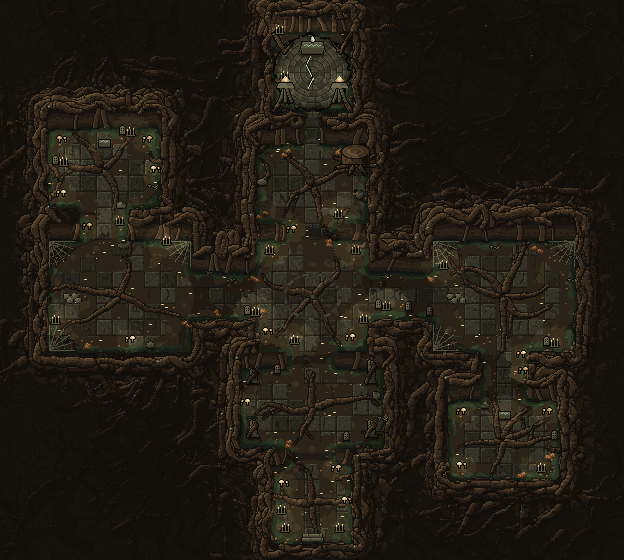
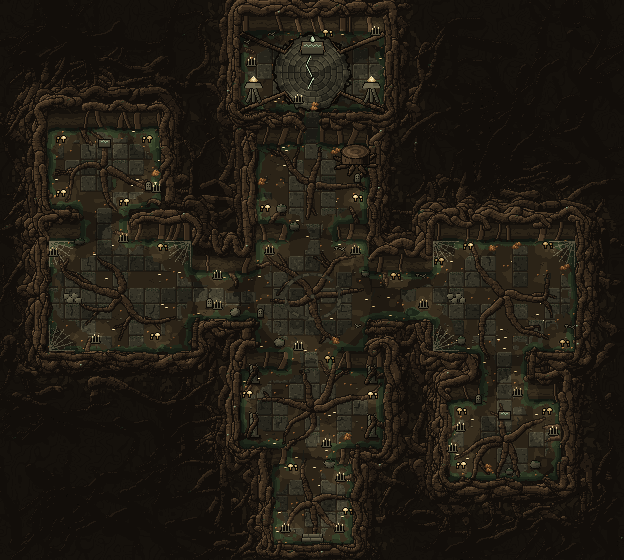
보스방을 9×5로 넓히고, 입장 시 보스방 전체를 밝힘
- data/act-exploration-maps.js: 보스방 반경 2×2 → 4×2(액트 7은 옆방 때문에 3×2). 가운데·관문·다른 방은 그대로라
  진행 중인 탐험 저장과 맞는다. 맵 그림 10장을 다시 찍음.
- 입장이 열리면 보스방과 둘레 벽을 발견 지도에 더한다(revealRoom). 보스방(관문 포함)에 있는 동안 방 전체의 안개를
  걷고, 조명 비네트를 방 가운데 기준으로 방 전체에 연다(bossRoomGlow → getBattleLightFocus).
- smoke-act-exploration-state: 관문 앞에서는 방 끝이 어둡고, 입장이 열리면 방 전체가 발견됨.

Changed region(s): [[0.0, 0.0, 0.9744, 1.0], [0.8221, 0.9107, 0.8526, 0.9411]]

diff --git a/data/act-exploration-maps.js b/data/act-exploration-maps.js
@@ -1,6 +1,7 @@
 // Authored topology, not a random generator. Rooms use [id, centerX, centerY, radiusX, radiusY, role].
 // Links use [from, to, optional orthogonal bend points]. Rotation is clockwise quarter turns.
 // Every boss chamber has exactly one one-cell threshold; ordinary passages stay wider.
+// Boss chambers are 9×5 (act 7: 7×5 — its deadwood room sits one wall column away) so a 2×2 boss has room to move.
 const ACT_EXPLORATION_MAPS = Object.freeze([
     {
         act:1, id:'root-branches', biome:'root', width:39, height:35, rotation:0,
@@ -8,7 +9,7 @@ const ACT_EXPLORATION_MAPS = Object.freeze([
         rooms:[['entry',19,31,2,2,'entry'],['hall',19,25,4,2,'battle'],
             ['fork',19,18,3,3,'battle'],['west',7,18,4,3,'elite'],
             ['east',31,18,4,3,'elite'],['twig',31,27,3,2,'optional'],
-            ['hollow',6,10,3,2,'optional'],['crown',19,11,3,2,'battle'],['boss',19,4,2,2,'boss']],
+            ['hollow',6,10,3,2,'optional'],['crown',19,11,3,2,'battle'],['boss',19,4,4,2,'boss']],
         links:[['entry','hall'],['hall','fork'],['fork','west'],['fork','east'],
             ['east','twig'],['west','hollow'],['fork','crown']]
     },
@@ -19,7 +20,7 @@ const ACT_EXPLORATION_MAPS = Object.freeze([
             ['west',8,25,3,2,'battle'],['east',34,25,3,2,'battle'],
             ['hedgeWest',8,14,3,3,'elite'],['hedgeEast',34,14,3,3,'elite'],
             ['alcove',3,20,1,2,'optional'],['arbor',39,20,1,2,'optional'],
-            ['balcony',21,11,4,2,'battle'],['boss',21,4,2,2,'boss']],
+            ['balcony',21,11,4,2,'battle'],['boss',21,4,4,2,'boss']],
         links:[['entry','south'],['south','west'],['south','east'],['west','hedgeWest'],
             ['east','hedgeEast'],['hedgeWest','balcony',[[8,11]]],['hedgeEast','balcony',[[34,11]]],
             ['west','alcove',[[3,25]]],['east','arbor',[[39,25]]]]
@@ -30,7 +31,7 @@ const ACT_EXPLORATION_MAPS = Object.freeze([
         rooms:[['entry',7,44,3,2,'entry'],['isleSouth',25,39,3,2,'battle'],
             ['isleWest',8,31,3,2,'elite'],['isleEast',25,22,3,2,'elite'],
             ['spur',29,31,2,2,'optional'],['ledge',5,18,2,2,'optional'],
-            ['summit',17,11,3,2,'battle'],['boss',17,4,2,2,'boss']],
+            ['summit',17,11,3,2,'battle'],['boss',17,4,4,2,'boss']],
         links:[['entry','isleSouth',[[7,39]]],['isleSouth','isleWest',[[25,31]]],
             ['isleWest','isleEast',[[8,22]]],['isleEast','summit',[[25,11]]],
             ['isleWest','spur'],['isleEast','ledge',[[5,22]]]]
@@ -42,7 +43,7 @@ const ACT_EXPLORATION_MAPS = Object.freeze([
             ['westLow',8,28,2,2,'battle'],['eastLow',38,28,2,2,'battle'],
             ['westHigh',8,16,2,2,'elite'],['eastHigh',38,16,2,2,'elite'],
             ['center',23,21,2,2,'battle'],['blindWest',3,21,1,1,'optional'],
-            ['blindEast',43,21,1,1,'optional'],['threshold',23,11,2,2,'battle'],['boss',23,4,2,2,'boss']],
+            ['blindEast',43,21,1,1,'optional'],['threshold',23,11,2,2,'battle'],['boss',23,4,4,2,'boss']],
         links:[['entry','cross'],['cross','westLow'],['cross','eastLow'],['westLow','westHigh'],
             ['eastLow','eastHigh'],['westHigh','center',[[16,16],[16,21]]],
             ['eastHigh','center',[[30,16],[30,21]]],['center','cross'],['center','threshold'],
@@ -54,7 +55,7 @@ const ACT_EXPLORATION_MAPS = Object.freeze([
         rooms:[['entry',17,39,2,2,'entry'],['naveSouth',17,32,3,3,'battle'],
             ['naveNorth',17,20,3,3,'battle'],['choir',6,30,3,3,'elite'],
             ['vestry',28,18,3,3,'elite'],['crypt',5,12,2,2,'optional'],
-            ['archive',29,33,2,2,'optional'],['altar',17,11,3,2,'battle'],['boss',17,4,2,2,'boss']],
+            ['archive',29,33,2,2,'optional'],['altar',17,11,3,2,'battle'],['boss',17,4,4,2,'boss']],
         links:[['entry','naveSouth'],['naveSouth','naveNorth'],['naveNorth','altar'],
             ['naveSouth','choir',[[6,32]]],['naveNorth','vestry',[[28,20]]],
             ['choir','crypt',[[6,12]]],['naveSouth','archive',[[29,32]]]]
@@ -66,7 +67,7 @@ const ACT_EXPLORATION_MAPS = Object.freeze([
             ['west',8,25,3,2,'battle'],['east',34,25,3,2,'elite'],
             ['hedgeWest',8,14,3,3,'elite'],['hedgeEast',34,14,3,3,'optional'],
             ['breach',21,19,3,2,'battle'],['collapse',3,20,1,2,'optional'],
-            ['balcony',21,11,4,2,'battle'],['boss',21,4,2,2,'boss']],
+            ['balcony',21,11,4,2,'battle'],['boss',21,4,4,2,'boss']],
         links:[['entry','south'],['south','west'],['west','hedgeWest'],['west','collapse',[[3,25]]],
             ['south','breach'],['breach','east',[[34,19]]],['breach','hedgeEast',[[34,19]]],
             ['breach','balcony'],['hedgeWest','balcony',[[8,11]]]]
@@ -78,7 +79,7 @@ const ACT_EXPLORATION_MAPS = Object.freeze([
             ['rimEast',38,13,3,3,'elite'],['rimNorth',7,13,3,3,'battle'],
             ['innerWest',7,30,2,2,'elite'],['innerSouth',25,30,3,2,'battle'],
             ['innerEast',25,20,2,2,'battle'],['deadwood',15,6,2,2,'optional'],
-            ['hollow',15,23,2,2,'optional'],['heart',22,11,2,2,'battle'],['boss',22,4,2,2,'boss']],
+            ['hollow',15,23,2,2,'optional'],['heart',22,11,2,2,'battle'],['boss',22,4,3,2,'boss']],
         links:[['entry','rimSouth',[[5,39]]],['rimSouth','rimEast'],['rimEast','rimNorth'],
             ['rimNorth','innerWest'],['innerWest','innerSouth'],['innerSouth','innerEast'],
             ['innerEast','heart',[[25,11]]],['innerWest','hollow',[[15,30]]],['rimNorth','deadwood',[[15,13]]]]
@@ -89,7 +90,7 @@ const ACT_EXPLORATION_MAPS = Object.freeze([
         rooms:[['entry',5,30,2,2,'entry'],['southEast',42,29,3,2,'battle'],
             ['middleEast',42,20,3,2,'elite'],['middleWest',13,20,3,2,'battle'],
             ['northWest',13,11,3,2,'elite'],['veilEnd',24,11,2,2,'battle'],
-            ['foldSouth',25,35,2,2,'optional'],['foldNorth',42,11,3,2,'optional'],['boss',24,4,2,2,'boss']],
+            ['foldSouth',25,35,2,2,'optional'],['foldNorth',42,11,3,2,'optional'],['boss',24,4,4,2,'boss']],
         links:[['entry','southEast',[[5,29]]],['southEast','middleEast'],['middleEast','middleWest'],
             ['middleWest','northWest'],['northWest','veilEnd'],['middleWest','foldSouth',[[25,20]]],
             ['middleEast','foldNorth']]
@@ -101,7 +102,7 @@ const ACT_EXPLORATION_MAPS = Object.freeze([
             ['west',7,25,3,3,'elite'],['east',45,25,3,3,'elite'],
             ['center',26,19,4,3,'battle'],['westHigh',7,13,3,2,'battle'],
             ['eastHigh',45,13,3,2,'battle'],['sapWest',16,32,2,2,'optional'],
-            ['sapEast',36,32,2,2,'optional'],['cocoon',26,11,4,2,'battle'],['boss',26,4,2,2,'boss']],
+            ['sapEast',36,32,2,2,'optional'],['cocoon',26,11,4,2,'battle'],['boss',26,4,4,2,'boss']],
         links:[['entry','fork'],['fork','west',[[7,27]]],['fork','east',[[45,27]]],['fork','center'],
             ['west','westHigh'],['east','eastHigh'],['westHigh','cocoon',[[7,11]]],
             ['eastHigh','cocoon',[[45,11]]],['center','cocoon'],['west','sapWest',[[16,25]]],['east','sapEast',[[36,25]]]]
@@ -114,7 +115,7 @@ const ACT_EXPLORATION_MAPS = Object.freeze([
             ['west',6,20,3,3,'elite'],['east',42,20,3,3,'elite'],
             ['northWest',12,11,3,2,'battle'],['northEast',36,11,3,2,'battle'],
             ['innerWest',17,23,2,2,'optional'],['innerEast',31,23,2,2,'optional'],
-            ['axis',24,11,3,2,'battle'],['boss',24,4,2,2,'boss']],
+            ['axis',24,11,3,2,'battle'],['boss',24,4,4,2,'boss']],
         links:[['entry','south'],['south','southWest',[[9,33]]],['south','southEast',[[39,33]]],
             ['southWest','west',[[6,31]]],['southEast','east',[[42,31]]],
             ['west','northWest',[[6,11]]],['east','northEast',[[42,11]]],

diff --git a/js/canvas-act-exploration.js b/js/canvas-act-exploration.js
@@ -61,14 +61,20 @@ const actExplorationView=(()=>{
         if(discovered)return Math.min(.48,Math.max(0,(distance-4)/7));
         return Math.min(.97,.66+Math.max(0,distance-5)*.05);
     }
+    /** Tiles from the hero; while the hero is at the boss room, every tile of the room (and its walls) counts as right here. */
+    function fogDistance(map,i,lit) {
+        const gx=i%map.columns,gy=Math.floor(i/map.columns);
+        if(lit && Math.abs(gx-lit.gx)<=lit.radiusX+1 && Math.abs(gy-lit.gy)<=lit.radiusY+1)return 0;
+        return Math.hypot(gx-game.gridPlayer.gx,gy-game.gridPlayer.gy);
+    }
     function updateFog(run,map) {
         const key=run.discovered.length+':'+game.gridPlayer.gx+':'+game.gridPlayer.gy;
         if(cache.fogKey===key)return;cache.fogKey=key;
         if(!cache.fog){cache.fog=document.createElement('canvas');cache.fog.width=map.columns;cache.fog.height=map.rows;}
         const ctx=cache.fog.getContext('2d'),pixels=ctx.createImageData(map.columns,map.rows),seen=new Set(run.discovered);
+        const lit=actExplorationState.bossRoomAt(run,game.gridPlayer);
         for(let i=0;i<map.tiles.length;i++) {
-            const distance=Math.hypot(i%map.columns-game.gridPlayer.gx,Math.floor(i/map.columns)-game.gridPlayer.gy);
-            pixels.data.set([8,14,12,Math.round(fogAlpha(seen.has(i),distance)*255)],i*4);
+            pixels.data.set([8,14,12,Math.round(fogAlpha(seen.has(i),fogDistance(map,i,lit))*255)],i*4);
         }
         ctx.putImageData(pixels,0,0);
         // Upscaling one pixel per tile with smoothing was the most expensive draw of every
@@ -100,6 +106,15 @@ const actExplorationView=(()=>{
             .filter(enemy=>seen.has(actExplorationMap.index(map,enemy)));
         return dormant;
     }
+    /** While the hero is at the boss room: the room's screen centre and a radius covering it, so the lighting pass
+     * opens over the whole room instead of around the hero. Uses this frame's projection (lastOrigin). */
+    function bossRoomGlow() {
+        const run=actExplorationState.current(game);
+        if(!run || lastOrigin?.run!==run)return null;
+        const room=actExplorationState.bossRoomAt(run,game.gridPlayer),tile=lastOrigin.tile;
+        if(!room)return null;
+        return {x:lastOrigin.x+(room.gx+.5)*tile,y:lastOrigin.y+(room.gy+.5)*tile,radius:Math.hypot(room.radiusX+1,room.radiusY+1)*tile};
+    }
     // Pixel-scale gate art (backdrop maps): integer scale, placed by its art-px offset from the gate tile centre.
     function gateBox(point,p) {
         const art=cache?.closed;if(!art?.pixelTile)return null;
@@ -124,6 +139,6 @@ const actExplorationView=(()=>{
         }
         ctx.restore();
     }
-    return {projection,background,appendScenery,waitingEnemies,drawScenery};
+    return {projection,background,appendScenery,waitingEnemies,drawScenery,bossRoomGlow};
 })();
 safeExposeGlobals({actExplorationView});

diff --git a/js/act-exploration-state.js b/js/act-exploration-state.js
@@ -52,11 +52,26 @@ const actExplorationState = (() => {
         if(cell.gx===map.gate.gx && cell.gy===map.gate.gy)return true;
         return Math.abs(cell.gx-room.gx)<=room.radiusX && Math.abs(cell.gy-room.gy)<=room.radiusY;
     }
+    /** The boss room when cell is its gate or inside it (the view then lights the whole room), else null. */
+    function bossRoomAt(run,cell) {
+        const map=actExplorationMap.layout(run.act),room=map.rooms.find(row=>row.role==='boss');
+        return room && atBossRoom(map,room,cell) ? room : null;
+    }
+    /** The whole boss room is uncovered as its entrance opens: its floor and the walls around it join the discovered map. */
+    function revealRoom(run,map,room) {
+        const known=new Set(run.discovered);
+        for(let gy=Math.max(0,room.gy-room.radiusY-1);gy<=Math.min(map.rows-1,room.gy+room.radiusY+1);gy++) {
+            for(let gx=Math.max(0,room.gx-room.radiusX-1);gx<=Math.min(map.columns-1,room.gx+room.radiusX+1);gx++)known.add(gy*map.columns+gx);
+        }
+        run.discovered=[...known];
+    }
     /** False until the player has stood at the boss room for BOSS_ENTRANCE_MS; the first such step opens the entrance. */
     function bossAwake(state,run,o) {
         const room=o.map.rooms.find(row=>row.id===o.pack.roomId),open=entrances.get(run);
         if(!atBossRoom(o.map,room,state.gridPlayer))return false;
-        if(!open || open.key!==o.pack.key || o.now<open.at){entrances.set(run,{key:o.pack.key,at:o.now,holdMs:BOSS_ENTRANCE_MS});return false;}
+        if(!open || open.key!==o.pack.key || o.now<open.at) {
+            entrances.set(run,{key:o.pack.key,at:o.now,holdMs:BOSS_ENTRANCE_MS});revealRoom(run,o.map,room);return false;
+        }
         if(o.now-open.at<BOSS_ENTRANCE_MS)return false;
         entrances.delete(run);
         return true;
@@ -226,6 +241,6 @@ const actExplorationState = (() => {
             || !Number.isFinite(exit.remainingMs) || exit.remainingMs<0 || exit.remainingMs>settlementMs)
             throw Error('탐험 정산 후 이동 저장이 잘못되었습니다.');
     }
-    return {settlementMs,current,create,discover,engage,entrance,recordDeath,retireCombat,remainingElites,selectDestination,destination,validate,restore};
+    return {settlementMs,current,create,discover,engage,entrance,bossRoomAt,recordDeath,retireCombat,remainingElites,selectDestination,destination,validate,restore};
 })();
 safeExposeGlobals({actExplorationState});

diff --git a/scripts/smoke-act-exploration-state.js b/scripts/smoke-act-exploration-state.js
@@ -79,6 +79,12 @@ for(let act=1;act<=10;act++) {
     }`);
     assert.equal(run('game.enemies.filter(enemy=>enemy.isBoss).length'),0,'a boss seen from the approach does not wake');
     assert.equal(run('actExplorationState.entrance(game.actExploration)'),null,'and no entrance starts before its gate');
+    const bossRoomUncovered=`(()=>{const map=actExplorationMap.layout(act),boss=map.rooms.find(r=>r.role==='boss'),known=new Set(game.actExploration.discovered);
+        for(let gy=Math.max(0,boss.gy-boss.radiusY-1);gy<=Math.min(map.rows-1,boss.gy+boss.radiusY+1);gy++)
+            for(let gx=Math.max(0,boss.gx-boss.radiusX-1);gx<=Math.min(map.columns-1,boss.gx+boss.radiusX+1);gx++)if(!known.has(gy*map.columns+gx))return false;
+        return true;})()`;
+    assert.equal(run(bossRoomUncovered),false,'the far side of the boss room is still dark from the approach');
+    assert.equal(run('actExplorationState.bossRoomAt(game.actExploration,game.gridPlayer)'),null,'the approach is not the boss room');
     run(`{
         const boss=actExplorationMap.layout(act).rooms.find(room=>room.role==='boss');
         game.gridPlayer={gx:boss.gx-1,gy:boss.gy,gridMoveTimer:0};
@@ -86,6 +92,8 @@ for(let act=1;act<=10;act++) {
     }`);
     assert.equal(run('game.enemies.filter(enemy=>enemy.isBoss).length'),0,'stepping into the boss room starts the entrance first');
     assert.equal(run('actExplorationState.entrance(game.actExploration).holdMs'),2600);
+    assert.equal(run(bossRoomUncovered),true,'the whole boss room and its walls are uncovered as the entrance opens');
+    assert.equal(run('actExplorationState.bossRoomAt(game.actExploration,game.gridPlayer).role'),'boss');
     run('actExplorationState.engage(game,actExplorationState.discover(game.actExploration,game.gridPlayer),12599);');
     assert.equal(run('game.enemies.filter(enemy=>enemy.isBoss).length'),0,'the boss keeps rising for the whole entrance');
     run('actExplorationState.engage(game,actExplorationState.discover(game.actExploration,game.gridPlayer),12600);');

diff --git a/js/canvas-battlefield.js b/js/canvas-battlefield.js
@@ -2835,14 +2835,21 @@ function drawBattleLightingAndBars(ctx, scene) {
     actTitleCard.draw(ctx, scene.width, scene.height, scene.now);
 }
 
+/** Where the dark vignette opens: around the hero, or over the whole boss room while the hero stands in it. */
+function getBattleLightFocus(scene) {
+    const { width, height, light } = scene;
+    const room = typeof actExplorationView === 'object' ? actExplorationView.bossRoomGlow() : null;
+    if (room) return { x: room.x, y: room.y, inner: room.radius, outer: room.radius + Math.max(width, height) * 0.3 };
+    return { x: light.x, y: light.y - 18, inner: Math.min(width, height) * 0.16, outer: Math.max(width, height) * 0.56 };
+}
+
 function drawBattleLightingPass(ctx, scene) {
     if (!isBattleLightingEnabled() || !scene.light) return;
     const { width, height, light } = scene;
     const cy = light.y - 18;
-    const inner = Math.min(width, height) * 0.16;
-    const outer = Math.max(width, height) * 0.56;
+    const focus = getBattleLightFocus(scene), inner = Math.min(width, height) * 0.16;
     ctx.save();
-    const dark = ctx.createRadialGradient(light.x, cy, inner, light.x, cy, outer);
+    const dark = ctx.createRadialGradient(focus.x, focus.y, focus.inner, focus.x, focus.y, focus.outer);
     dark.addColorStop(0, 'rgba(4,5,7,0)');
     dark.addColorStop(0.42, 'rgba(4,5,7,0.24)');
     dark.addColorStop(1, 'rgba(3,4,6,0.62)');

diff --git a/docs/act-exploration-integration.md b/docs/act-exploration-integration.md
@@ -649,3 +649,8 @@
   휴대폰 세로 화면에서 보스방이 위쪽에 있을 때 배너가 보스를 덮던 문제를 이렇게 피했다.
 - 검사: `smoke-act-exploration-state.js` — 관문 앞 칸에서는 입장이 열리지 않음, 관문에서 열림(2600ms),
   2599ms에는 보스 0, 2600ms에 1, 액트 4 두 번째 단계도 같은 순서.
+- 보스방은 9×5칸(액트 7은 옆 고목 방과 벽 한 줄 사이라 7×5)으로 넓혔다. 가운데·관문·다른 방 좌표는 그대로라
+  진행 중인 탐험 저장이 그대로 맞는다. 맵 그림은 `build-act-maps.cjs --write`로 다시 찍었다.
+- 입장이 열리는 순간 보스방 전체(바닥과 둘레 벽)를 발견 지도에 더하고(`revealRoom`), 플레이어가 보스방(관문 포함)에
+  있는 동안은 방 전체의 안개를 걷고(`fogDistance`) 조명 비네트를 방 가운데 기준으로 방 전체에 연다
+  (`actExplorationView.bossRoomGlow` → `getBattleLightFocus`). 입장 연출의 어둠이 걷히면 방 전체가 밝게 드러난다.
